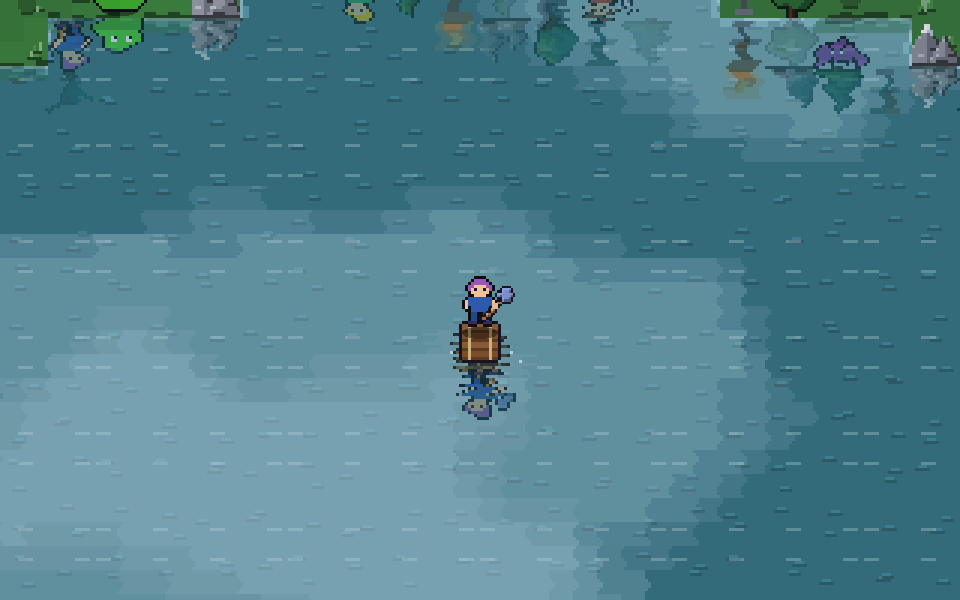
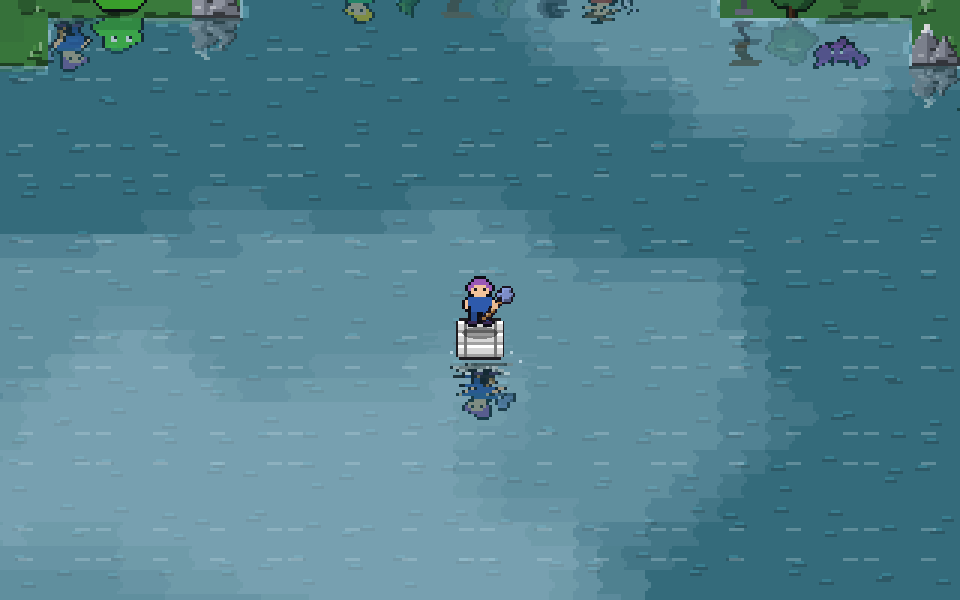
fix(world): anchor reflections to the shoreline
Only props/actors right above the water reflect (reach 1), flipped on
their base so the reflection starts at the water line with no gap,
capped at reflMaxLen (24 px). The shore texture is drawn behind the
actors (dstOver) so actor fades no longer tint a rectangle of water;
bank lip 2 px. Tests: prop two tiles up does not reflect, adjacent one
does, uniform tint in an inlet. New preview inlet_tree.png.

diff --git a/lib/features/world/presentation/map/water_reflection_layer.dart b/lib/features/world/presentation/map/water_reflection_layer.dart
@@ -101,6 +101,9 @@ class WaterReflectionLayer {
   /// Cloud cells reflected last frame, per step (tests).
   final debugCloudCells = List.generate(3, (_) => <double>[]);
 
+  /// Prop tiles reflected by the last shore build (tests).
+  final debugShoreProps = <(int, int)>[];
+
   /// Quality in use this frame.
   bool get high => level == ReflectionLevel.high && !autoLow;
 
@@ -187,6 +190,7 @@ class WaterReflectionLayer {
           ..add(k);
       }
     }
+    debugShoreProps.clear();
     _shore = _buildShore(map, rows, lamps);
     return true;
   }
@@ -213,7 +217,8 @@ class WaterReflectionLayer {
         final line = y * ts;
         c
           ..save()
-          ..clipRect(Rect.fromLTWH(x * ts, line, ts, rows * ts))
+          ..clipRect(Rect.fromLTWH(
+              x * ts, line, ts, math.min(rows * ts, r.d('reflMaxLen'))))
           ..translate(0, 2 * line)
           ..scale(1, -1);
         // The plain bank: only a short, faded lip right at the water line.
@@ -238,6 +243,7 @@ class WaterReflectionLayer {
                 _plain.contains(ch)) {
               continue;
             }
+            if (sy == y - 1) debugShoreProps.add((sx, sy));
             tiles.tiles.noGround = true;
             tiles.drawTileAt(c, map, sx, sy);
             tiles.tiles.noGround = false;
@@ -247,7 +253,8 @@ class WaterReflectionLayer {
           }
         }
         c.restore();
-        _fadeBands(c, x * ts, ts, line, rows * ts, water);
+        _fadeBands(c, x * ts, ts, line, math.min(rows * ts, r.d('reflMaxLen')),
+            water);
         drew = true;
       }
     }
@@ -332,16 +339,7 @@ class WaterReflectionLayer {
     final ih = box.height.ceil() + 2 * _pad + 1;
     final rec = ui.PictureRecorder();
     final p = Canvas(rec)..translate(-ox.toDouble(), -oy.toDouble());
-    if (_shore case final img?) {
-      final dst = Rect.fromLTWH(
-          ox.toDouble(), oy.toDouble(), iw.toDouble(), ih.toDouble());
-      final src = dst.shift(Offset(-_wx0 * ts, -_wy0 * ts)).intersect(
-          Rect.fromLTWH(0, 0, img.width.toDouble(), img.height.toDouble()));
-      if (!src.isEmpty) {
-        p.drawImageRect(
-            img, src, src.shift(Offset(_wx0 * ts, _wy0 * ts)), _atlas);
-      }
-    }
+    final maxLen = r.d('reflMaxLen');
     // Actors near the water, capped (§ 1.1).
     final cands = <ReflectionCandidate>[];
     final lines = <double>[];
@@ -362,15 +360,31 @@ class WaterReflectionLayer {
         cands, view.center.dx, view.center.dy, ReflectionRules.actorCap(high: hi));
     for (final i in picked) {
       final a = keep[i], l = lines[i];
+      // Capped length, from the water line down.
       p
         ..save()
+        ..clipRect(Rect.fromLTWH(a.x - 24, l, 48, maxLen))
         ..translate(0, (l + a.y).roundToDouble())
         ..scale(1, -1);
       a.draw(p);
       p.restore();
-      _fadeBands(p, a.x - 16, 32, l, 48, water);
+      _fadeBands(p, a.x - 24, 48, l, maxLen, water);
     }
     lastActors = picked.length;
+    // The shore texture BEHIND the actors (dstOver): the actor fades only
+    // touch actor pixels, never a rectangle of the shore (§ 3).
+    if (_shore case final img?) {
+      final dst = Rect.fromLTWH(
+          ox.toDouble(), oy.toDouble(), iw.toDouble(), ih.toDouble());
+      final src = dst.shift(Offset(-_wx0 * ts, -_wy0 * ts)).intersect(
+          Rect.fromLTWH(0, 0, img.width.toDouble(), img.height.toDouble()));
+      if (!src.isEmpty) {
+        _atlas.blendMode = BlendMode.dstOver;
+        p.drawImageRect(
+            img, src, src.shift(Offset(_wx0 * ts, _wy0 * ts)), _atlas);
+        _atlas.blendMode = BlendMode.srcOver;
+      }
+    }
     // Sky and clouds behind everything (§ 1.3).
     if (sky) _sky(p, view, t, darkness, cover, field);
     _fill.blendMode = BlendMode.srcOver;

diff --git a/test/features/world/water_reflection_layer_test.dart b/test/features/world/water_reflection_layer_test.dart
@@ -212,4 +212,63 @@ void main() {
     final all = {for (final r in rows) ...r};
     expect(all, hasLength(1));
   });
+
+  test('only props right above the water reflect, from the water line', () {
+    final map = inletLake();
+    final layer = reflectionLayer(TilePainter());
+    frame((c) => layer.draw(c, map, const Rect.fromLTWH(0, 0, 512, 384),
+        t: 0,
+        darkness: 0,
+        cover: 0,
+        field: const Size(512, 384),
+        actors: const [],
+        roofed: (_, __) => false));
+    expect(layer.debugShoreProps, contains((10, 5)));
+    expect(layer.debugShoreProps, isNot(contains((20, 10))),
+        reason: 'two tiles above the water: no floating tree');
+    // An actor two tiles above the water does not reflect; adjacent does.
+    WaterKind at(int x, int y) => layer.kindAt(x, y);
+    expect(ReflectionRules.anchor(20 * 16 + 8, 10 * 16 + 15, at), isNull);
+    expect(ReflectionRules.anchor(20 * 16 + 8, 11 * 16 + 15, at), 12 * 16);
+  });
+
+  testWidgets('inlet: the water tint stays uniform past the reflection',
+      (tester) async {
+    final map = inletLake();
+    final layer = reflectionLayer(TilePainter());
+    const view = Rect.fromLTWH(96, 64, 256, 256);
+    final actors = [
+      (
+        x: 10 * 16 + 8.0,
+        y: 5 * 16 + 15.0,
+        moving: false,
+        onWater: false,
+        draw: (Canvas c) => c.drawRect(
+            const Rect.fromLTWH(160, 64, 16, 32), Paint()..color = const Color(0xFFFFFFFF)),
+      ),
+    ];
+    final img = record(256, 256, (c) {
+      c.translate(-view.left, -view.top);
+      layer.draw(c, map, view,
+          t: 0,
+          darkness: 0,
+          cover: 0,
+          field: const Size(512, 384),
+          actors: actors,
+          roofed: (_, __) => false);
+    });
+    final data = await tester.runAsync(
+        () => img.toByteData(format: ui.ImageByteFormat.rawRgba));
+    final px = data!.buffer.asUint32List();
+    int at(double x, double y) =>
+        px[(y - view.top).toInt() * 256 + (x - view.left).toInt()];
+    // Inlet column, well past the 1.5-tile reflection (line 96 + 24).
+    final open = at(300, 300);
+    for (var y = 96.0 + 26; y < 190; y += 3) {
+      for (var x = 161.0; x < 175; x += 3) {
+        expect(at(x, y), open, reason: '($x, $y)');
+      }
+    }
+    img.dispose();
+  });
 }

diff --git a/test/features/world/water_reflection_preview_test.dart b/test/features/world/water_reflection_preview_test.dart
@@ -22,7 +22,8 @@ void main() {
     if (!_on) return;
     late GameSprites sprites;
     await tester.runAsync(() async => sprites = await loadSprites());
-    final map = reflectionLake();
+    final lakeMap = reflectionLake();
+    final map = lakeMap;
     final tiles = TilePainter()..vegetation = sprites.vegetation;
     final painter = ActorPainter(sprites);
     const w = 320.0, h = 200.0, scale = 3.0;
@@ -40,13 +41,17 @@ void main() {
     ];
 
     Future<void> shot(String name, Rect view,
-        {required double dark,
+        {GameMap? on,
+        required double dark,
         double cover = 0.7,
         bool raft = false,
         double t = 2.0,
         Color? veil}) async {
+      final map = on ?? lakeMap;
       final layer = reflectionLayer(tiles);
-      var actors = lakeActors(map, 10, painter: painter, t: t * 1000);
+      var actors = on != null
+          ? <ReflectedActor>[]
+          : lakeActors(map, 10, painter: painter, t: t * 1000);
       if (raft) {
         final im = sprites.lifeIcon('balsa', '');
         final x = view.center.dx, y = view.center.dy + 10;
@@ -129,6 +134,8 @@ void main() {
         dark: 0.5, veil: const Color(0xFFF2D2C0), cover: 0.4);
     await shot('night_lights', shore,
         dark: 1, veil: const Color(0xFF3A4478), cover: 0.2);
+    await shot('inlet_tree', const Rect.fromLTWH(48, 16, 320, 200),
+        on: inletLake(), dark: 0, cover: 0);
     await shot('raft_wake', lake, dark: 0, raft: true, t: 3.3);
   });
 }

diff --git a/test/features/world/reflection_scene.dart b/test/features/world/reflection_scene.dart
@@ -147,3 +147,30 @@ ui.Image record(int w, int h, void Function(Canvas c) draw) {
   pic.dispose();
   return img;
 }
+
+/// A lake (rows 12+) with a 1-tile inlet going up at column 10 (rows
+/// 6..11); trees: right above the inlet top (adjacent), and two tiles
+/// above the lake at column 20 with grass between.
+GameMap inletLake() {
+  final rows = <String>[];
+  for (var y = 0; y < 24; y++) {
+    final b = StringBuffer();
+    for (var x = 0; x < 32; x++) {
+      if (y >= 12 || (x == 10 && y >= 6)) {
+        b.write(Tile.water);
+      } else if ((x == 10 && y == 5) || (x == 20 && y == 10)) {
+        b.write(Tile.tree);
+      } else {
+        b.write(Tile.grass);
+      }
+    }
+    rows.add(b.toString());
+  }
+  return GameMap(
+      width: 32,
+      height: 24,
+      rows: rows,
+      theme: 'bosque_ext',
+      spawn: const WorldPoint(0, 0),
+      lobby: true);
+}

diff --git a/lib/game_engine/data/tuning_catalog.dart b/lib/game_engine/data/tuning_catalog.dart
@@ -838,8 +838,9 @@ const Map<String, TuningDef> kTuningDefaults = {
     'reflAlpha': 0.74,
     'reflMurkyAlpha': 0.46,
     'reflTint': 0.16,
-    'reflRows': 2,
-    'reflActorReach': 2,
+    'reflRows': 1,
+    'reflActorReach': 1,
+    'reflMaxLen': 24,
     'reflActorsHigh': 16,
     'reflActorsLow': 6,
     'reflWaveAmp': 1,
@@ -854,7 +855,7 @@ const Map<String, TuningDef> kTuningDefaults = {
     'reflGlowLen': 14,
     'reflGlowAlpha': 0.6,
     'reflBankAlpha': 0.45,
-    'reflBankLip': 5,
+    'reflBankLip': 2,
     'reflFloatDrop': 10,
     'reflDuskTint': 0.16,
     'reflStars': 7,

diff --git a/lib/game_engine/balance/balance_codecs.dart b/lib/game_engine/balance/balance_codecs.dart
@@ -1927,6 +1927,7 @@ const _regionsLabels = {
   'reflGlowLen': 'Reflejos: largo del brillo de una luz (px)',
   'reflGlowAlpha': 'Reflejos: opacidad del brillo de una luz',
   'reflBankAlpha': 'Reflejos: opacidad de la orilla reflejada',
+  'reflMaxLen': 'Reflejos: largo máximo de un reflejo (px)',
   'reflBankLip': 'Reflejos: alto de la orilla lisa reflejada (px)',
   'reflFloatDrop': 'Reflejos: bajada del reflejo de la balsa (px)',
   'reflDuskTint': 'Reflejos: tinte cálido del agua al atardecer',

diff --git a/docs/specs/water_reflections.md b/docs/specs/water_reflections.md
@@ -56,6 +56,19 @@ discretos.
    (`reflWakeAmp`) dentro de `reflWakeRadius` px, más espuma de 1 px en
    la estela de la balsa.
 
+### 1.6 Anclaje a la orilla (v0.49.9)
+
+- Solo se reflejan props y actores cuya base está JUSTO sobre el agua
+  (`reflRows` = `reflActorReach` = 1): un árbol a 2 tiles del agua no
+  se refleja (antes aparecía "flotando" en el medio del lago).
+- El reflejo se voltea sobre la base y la base reflejada cae en la
+  primera fila de agua de esa columna: sin hueco. Largo máximo
+  `reflMaxLen` (24 px = 1.5 tiles), desvanecido rápido.
+- Los desvanecidos de cada actor solo tocan píxeles del actor: la
+  textura de la orilla se dibuja detrás (`dstOver`), así no queda un
+  rectángulo de agua más clara alrededor del actor. El borde de la
+  orilla lisa es de `reflBankLip` = 2 px.
+
 ## 2. Tipos de agua
 
 | Tipo | Dónde | Reflejo |
